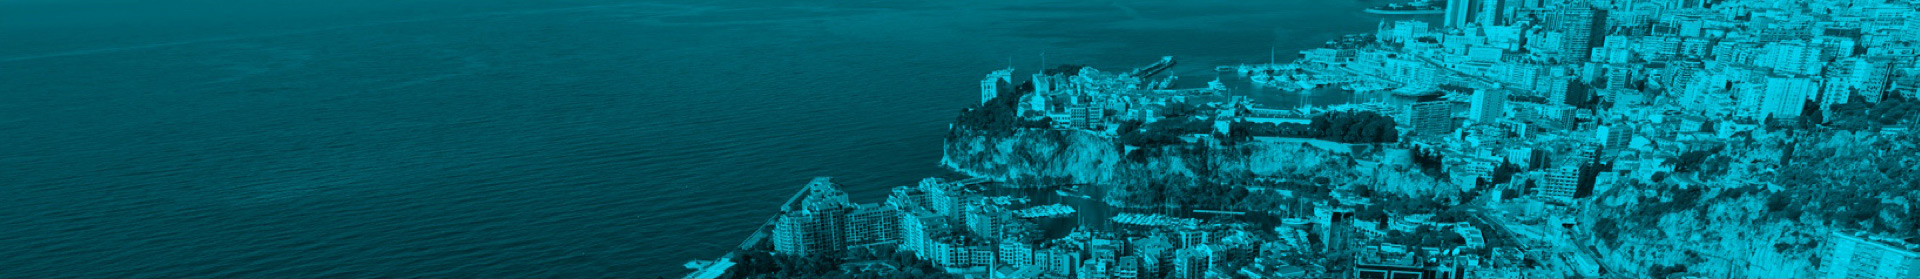
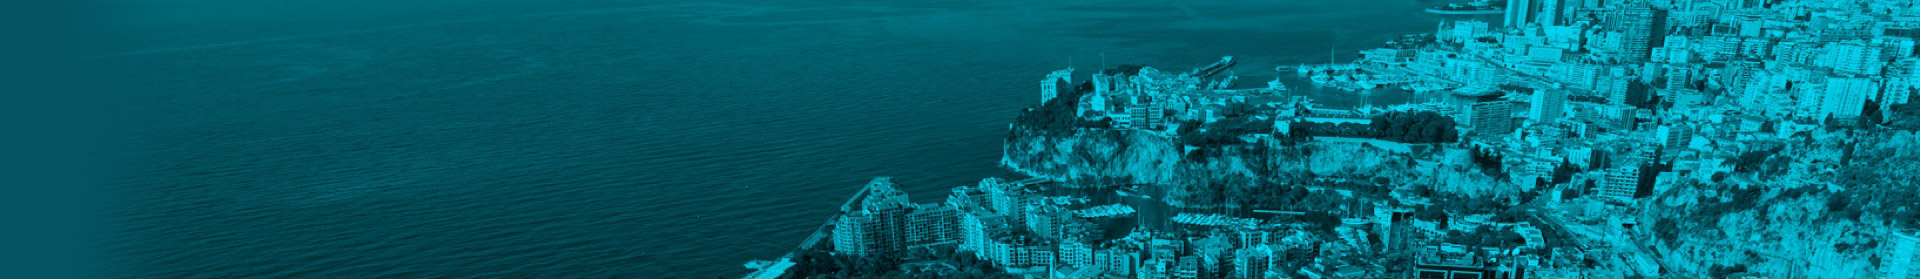
Update header background

diff --git a/css/surcharge.css b/css/surcharge.css
@@ -187,7 +187,7 @@ h2 {
   display: flex;
   align-items: center;
   justify-content: space-between;
-  background: url('img/readyforit/bg_header.jpg') no-repeat 46% 0;
+  background: #025563 url('img/readyforit/bg_header.jpg') no-repeat right top;
 }
 
 .header-logo {
